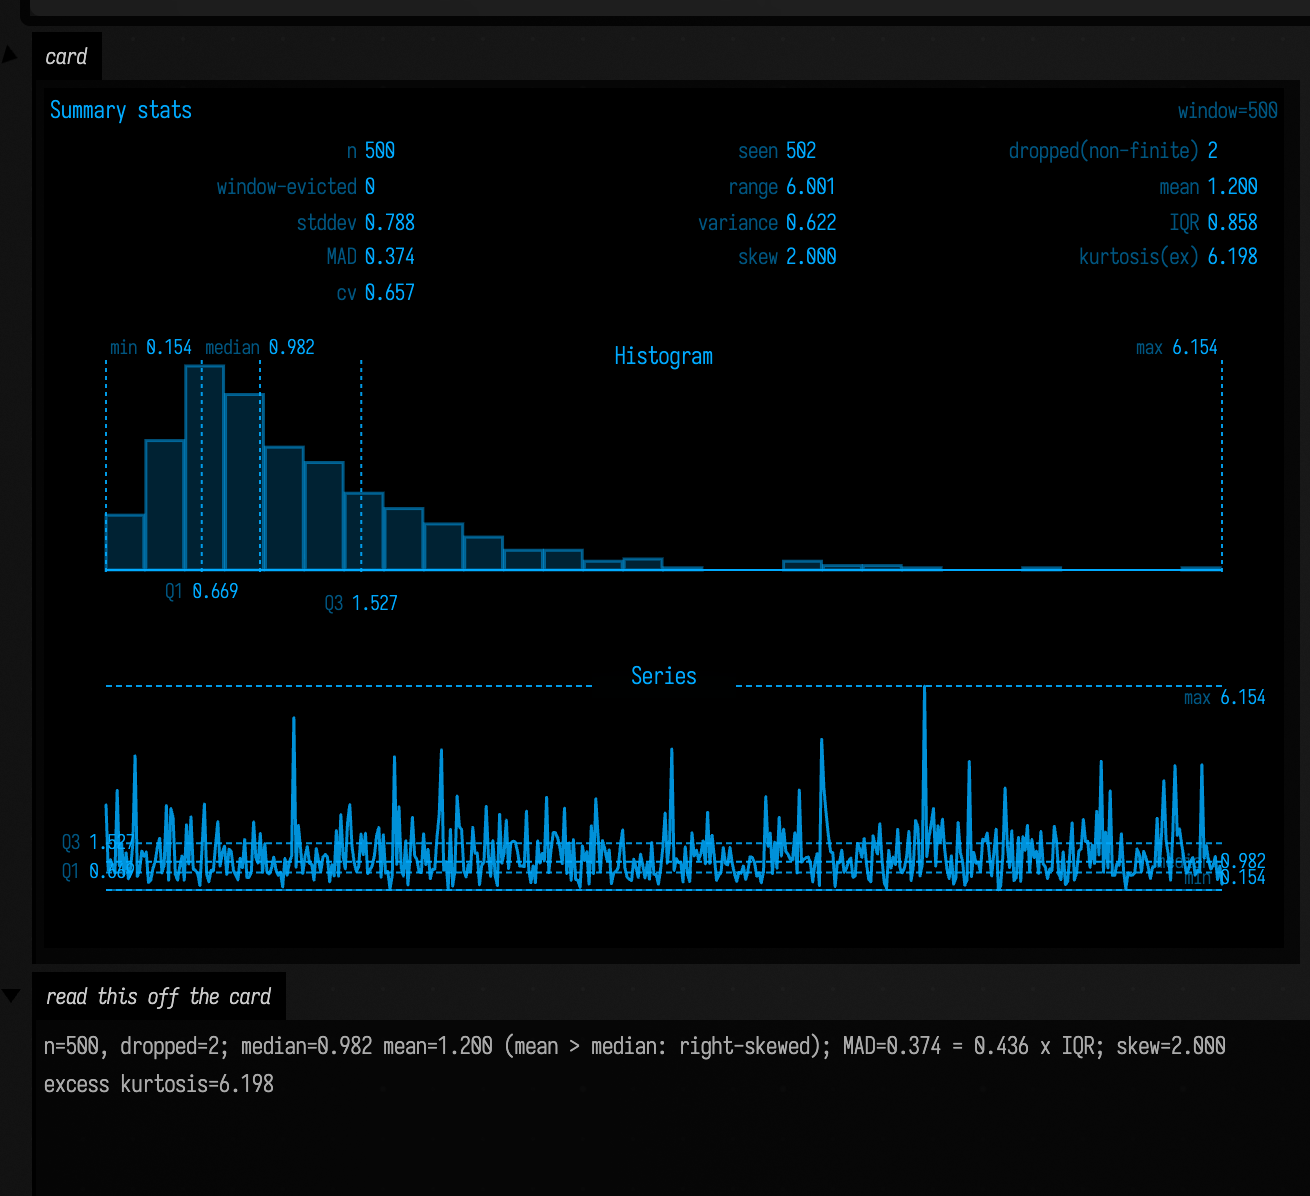
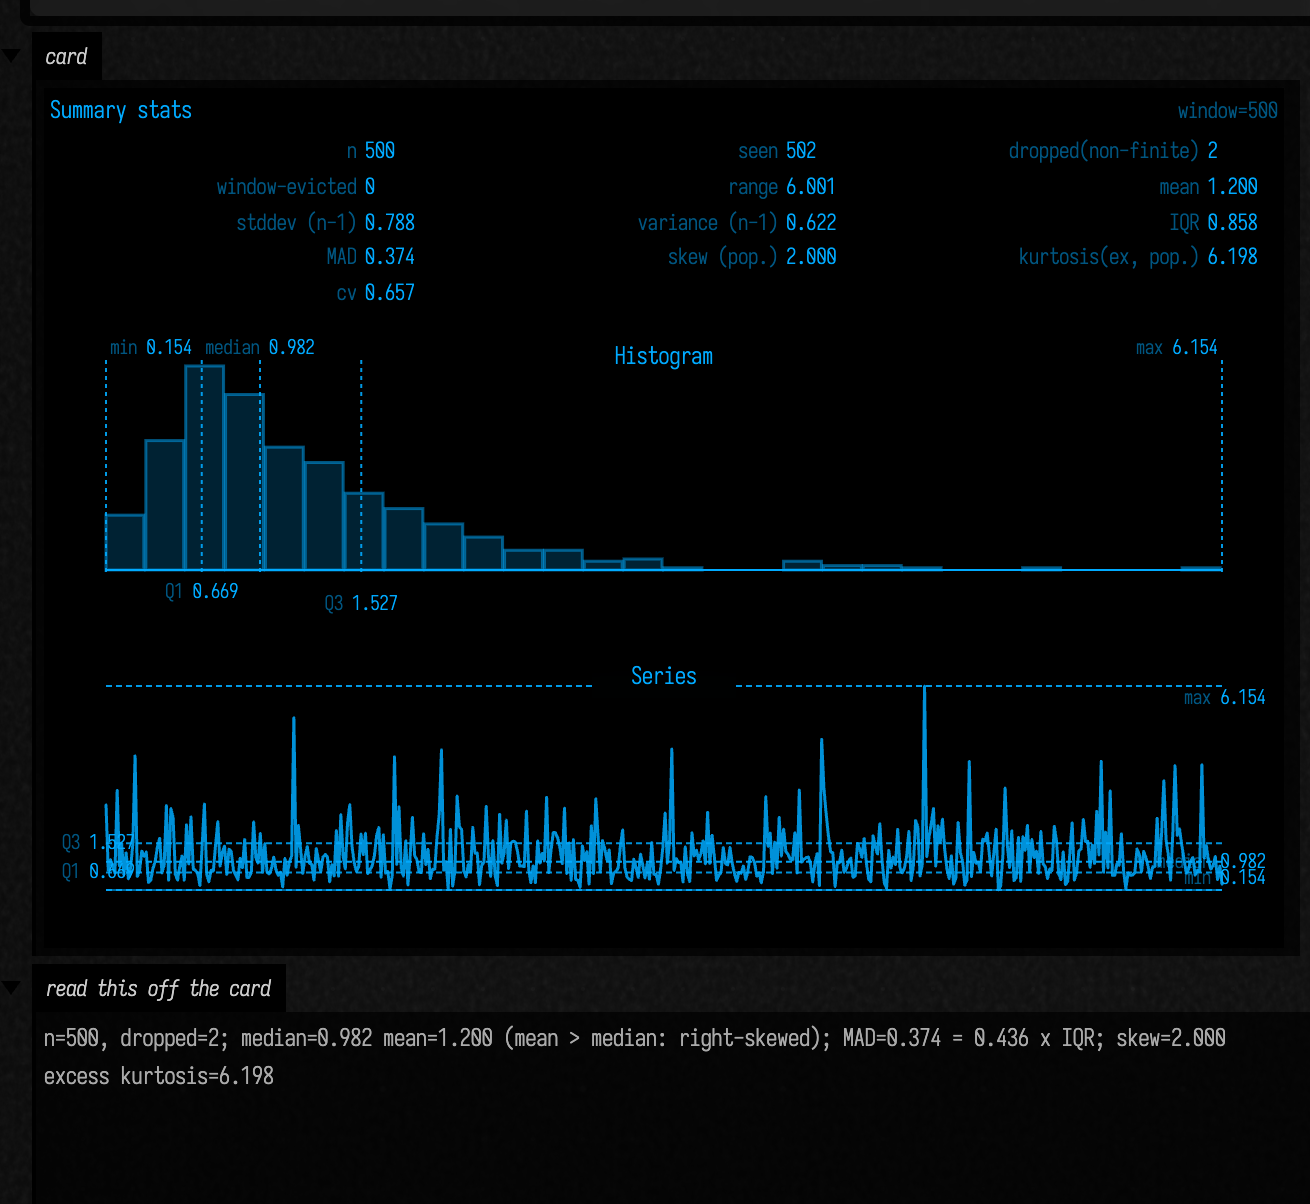
Summary-stats card labels sample vs population conventions

diff --git a/src/jvmMain/kotlin/afield/math/statistics/stats.kt b/src/jvmMain/kotlin/afield/math/statistics/stats.kt
@@ -1729,9 +1729,8 @@ fun seriesPlotToSvg(
  * metrics, then a [histogramToSvg] and a [seriesPlotToSvg] of the same window, all inline. No `<img>`,
  * no `<script>`, nothing to fetch — hand it to `display` and it draws.
  *
- * **The metric labels mix the two variance conventions**, faithfully, because [SummaryStats] does:
- * `stddev` and `variance` are the sample (n−1) forms while `skew` and `kurtosis(ex)` on the same card
- * are the population (n) forms. `dropped(non-finite)` and `window-evicted` are the buffer's two
+ * Each label names its convention, because [SummaryStats] mixes them: `stddev (n−1)` and
+ * `variance (n−1)` are the sample forms, `skew (pop.)` and `kurtosis(ex, pop.)` the population forms. `dropped(non-finite)` and `window-evicted` are the buffer's two
  * distinct counters.
  *
  * Pass [previousSummary] and every number that moved is tinted by the *sign and relative size* of the
@@ -1824,13 +1823,13 @@ fun summaryStatsBoxToHtml(
         ),
         statMetric("range", formatNumber(s.range, decimals), deltaStyle(s.range, p?.range), keyTextOpacity),
         statMetric("mean", formatNumber(s.mean, decimals), deltaStyle(s.mean, p?.mean), keyTextOpacity),
-        statMetric("stddev", formatNumber(s.sampleStdDev, decimals), deltaStyle(s.sampleStdDev, p?.sampleStdDev), keyTextOpacity),
-        statMetric("variance", formatNumber(s.sampleVariance, decimals), deltaStyle(s.sampleVariance, p?.sampleVariance), keyTextOpacity),
+        statMetric("stddev (n−1)", formatNumber(s.sampleStdDev, decimals), deltaStyle(s.sampleStdDev, p?.sampleStdDev), keyTextOpacity),
+        statMetric("variance (n−1)", formatNumber(s.sampleVariance, decimals), deltaStyle(s.sampleVariance, p?.sampleVariance), keyTextOpacity),
         statMetric("IQR", formatNumber(s.iqr, decimals), deltaStyle(s.iqr, p?.iqr), keyTextOpacity),
         statMetric("MAD", formatNumber(s.mad, decimals), deltaStyle(s.mad, p?.mad), keyTextOpacity),
-        statMetric("skew", formatNumber(s.skewness, decimals), deltaStyle(s.skewness, p?.skewness), keyTextOpacity),
+        statMetric("skew (pop.)", formatNumber(s.skewness, decimals), deltaStyle(s.skewness, p?.skewness), keyTextOpacity),
         statMetric(
-            "kurtosis(ex)",
+            "kurtosis(ex, pop.)",
             formatNumber(s.kurtosisExcess, decimals),
             deltaStyle(s.kurtosisExcess, p?.kurtosisExcess),
             keyTextOpacity

diff --git a/public/docs/statistics_examples.md b/public/docs/statistics_examples.md
@@ -78,11 +78,9 @@ markdown("read this off the card", "{muted:$note}", width = 620)
 
 ![A cyan-on-black summary-stats card for a right-skewed signal: thirteen metrics, a histogram and a series plot](assets/statistics_examples/summary_card.png)
 
-Read the card's labels carefully, because two of them are inconsistent and the inconsistency is in
-the source rather than the rendering. `stddev` and `variance` are the **sample** (divide by n−1)
-forms; `skew` and `kurtosis(ex)` are the **population** (divide by n) forms, with no bias
-correction (`stats.kt:67#[skewness] and [kurtosisExcess] are only ever the **population** forms`).
-Both conventions are defensible; having both on one card is a trap. If you are comparing against
+Each label on the card names its convention: `stddev (n−1)` and `variance (n−1)` are the
+**sample** forms, `skew (pop.)` and `kurtosis(ex, pop.)` the **population** forms, with no bias
+correction. If you are comparing against
 another tool, the mapping onto NumPy and SciPy is exact: `q1`/`median`/`q3` are
 `numpy.percentile`'s default linear interpolation, `mad` is `median(|y − median(y)|)` unscaled,
 `sampleStdDev` is `numpy.std(ddof=1)`, and `skewness`/`kurtosisExcess` are `scipy.stats.skew` and
